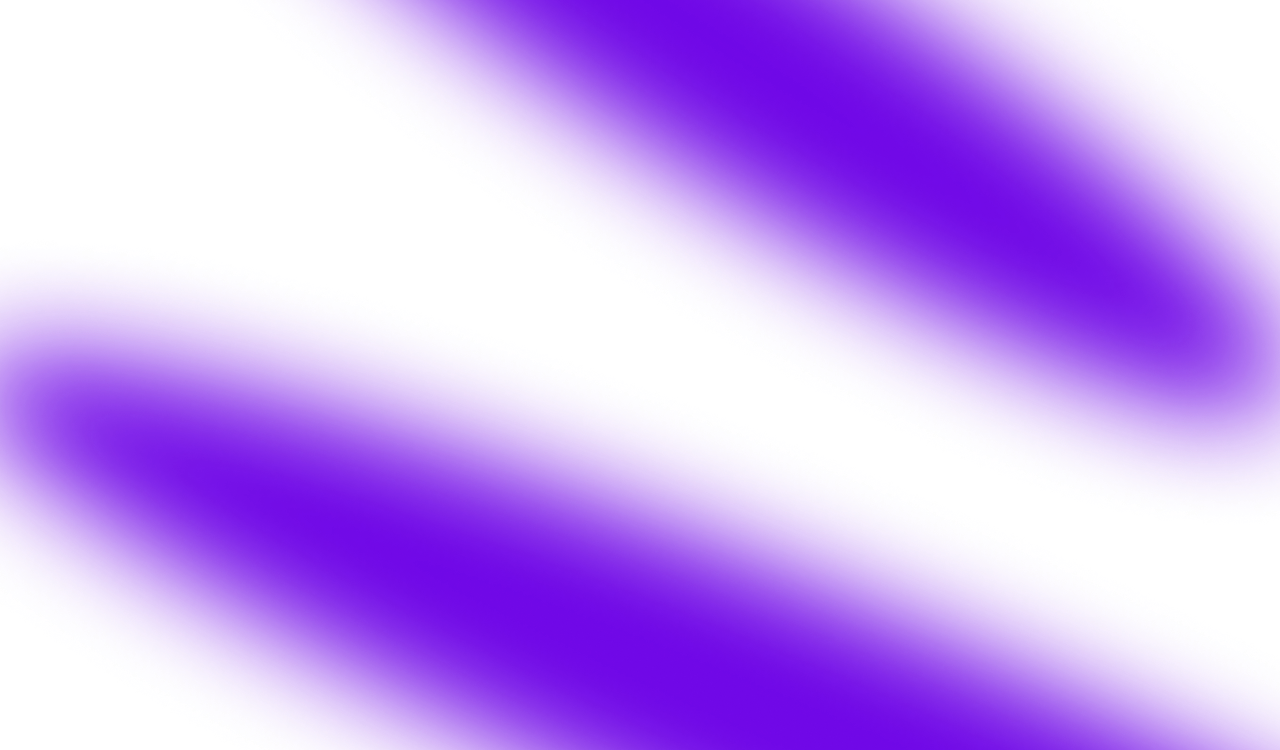
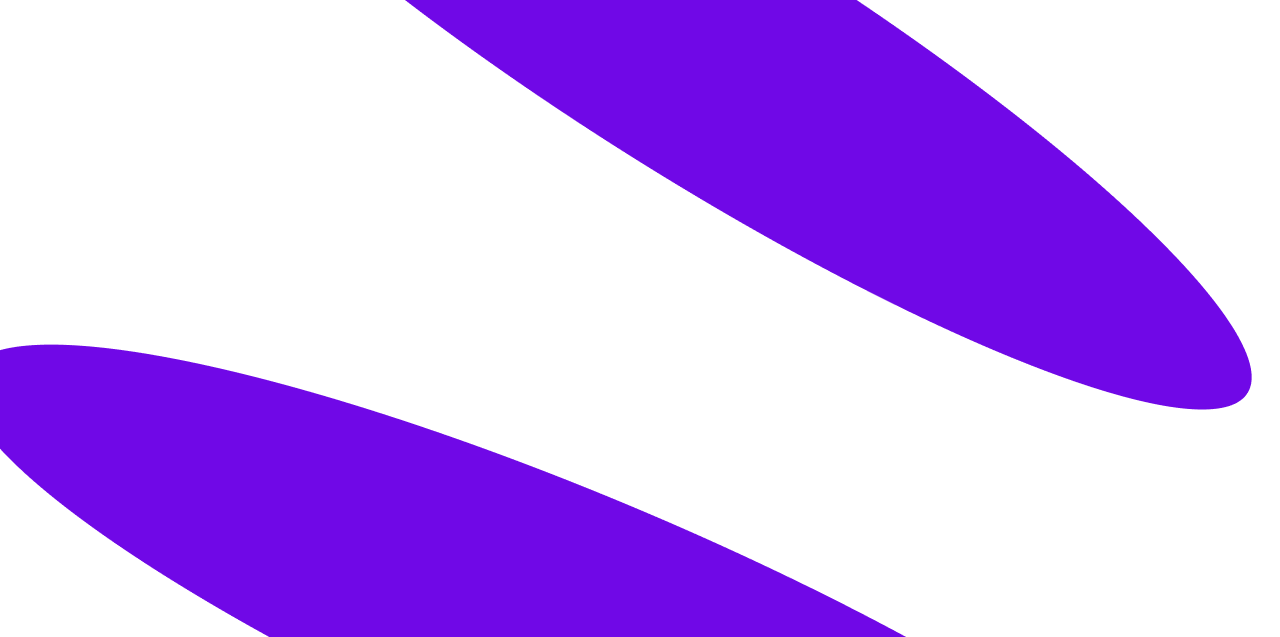
style - arrumando responsivo telas 1200x1920
Telas - home, login e cadastro

diff --git a/frontend/src/app/pages/home/home.css b/frontend/src/app/pages/home/home.css
@@ -8,6 +8,7 @@
     height: 90vh;
     background-repeat: no-repeat;
     background-size: cover;
+    background-color: #2F0D68;
 }
 
 .home__boxes {
@@ -19,12 +20,10 @@
 }
 
 .home__box {
-    background: linear-gradient(-90deg, hsl(0deg 0% 100% / 40%) 0%,
-            hsl(0deg 0% 100% / 40%) 17%,
-            hsl(0deg 0% 49.75% / 10%) 100%);
-    box-shadow: inset 0 2px 4px hsla(0, 0%, 100%, 15);
-
-    backdrop-filter: blur(50px);
+    background: linear-gradient(-90deg, hsla(0, 0%, 0%, 0) 0%, hsla(0, 0%, 21.6%, 0) 17%, hsla(0, 0%, 0%, 0.13) 100%);
+    box-shadow: inset 10px 0px 50px hsla(0, 0%, 0%, 0);
+    -webkit-backdrop-filter: blur(60px);
+    backdrop-filter: blur(60px);
 
 }
 
@@ -34,6 +33,7 @@ div.ajusteText {
     width: 100%;
     position: absolute;
     transform: translate(0, 35vh);
+    color: #fff;
 }
 
 div.conteudo {
@@ -75,8 +75,8 @@ div.btnsAjuste {
 }
 
 div.btnsAjuste a {
-    background-color: #1E1E1E;
-    color: #fff;
+    background-color: #DDD6FF;
+    color: #000;
     padding: 10px 15px;
     border-radius: 5px;
     transition: all 0.2s;
@@ -84,7 +84,8 @@ div.btnsAjuste a {
 }
 
 div.btnsAjuste a:hover {
-    background-color: #7008E7;
+    background-color: #2F0D68;
+    color: #fff;
 }
 
 /*Cards porque existimos*/
@@ -324,7 +325,7 @@ div.fCards picture {
     display: flex;
     align-items: center;
     justify-content: center;
-    height: 70%;
+    height: 30vh;
 }
 
 
@@ -563,63 +564,66 @@ section.para-alguem {
         grid-auto-flow: row;
     }
 
-    .alunoPasso, .instrutorPasso {
+    .alunoPasso,
+    .instrutorPasso {
         flex-direction: column;
         margin-top: 3vh;
     }
 
-    .passo h1{
-    font-size: 2vh;
-}
+    .passo h1 {
+        font-size: 2vh;
+    }
 
-hr{
-    display: none;
-}
+    hr {
+        display: none;
+    }
 
-div.cardsFuncionalidades {
-    flex-direction: column;
-}
+    div.cardsFuncionalidades {
+        flex-direction: column;
+    }
 
-div.fCards {
-    width: 90%;
-}
+    div.fCards {
+        width: 90%;
+    }
 
-.perguntasFreq {
-    flex-direction: column;
-}
+    .perguntasFreq {
+        flex-direction: column;
+    }
 
-.perguntasFreq h1 {
-    font-size: 3.5vh;
-    width: 100%;
-}
+    .perguntasFreq h1 {
+        font-size: 3.5vh;
+        width: 100%;
+    }
 
-.perguntas{
-    width: 100%;
-}
+    .perguntas {
+        width: 100%;
+    }
 
-.para-instrutores, .para-alunos {
-    flex-direction: column;
-    width: 90%;
-}
+    .para-instrutores,
+    .para-alunos {
+        flex-direction: column;
+        width: 90%;
+    }
 
-.para-instrutores picture, .para-instrutores picture.aluno {
-    width: 100%;
-    height: 25vh;
-}
+    .para-instrutores picture,
+    .para-instrutores picture.aluno {
+        width: 100%;
+        height: 25vh;
+    }
 
-.para-instrutores picture img {
-    border-radius: 10px;
-    object-fit: cover;
-    width: 100%;
-}
+    .para-instrutores picture img {
+        border-radius: 10px;
+        object-fit: cover;
+        width: 100%;
+    }
 
-.para-instrutores div {
-    padding: 45px 45px 45px 90px;
-}
+    .para-instrutores div {
+        padding: 45px 45px 45px 90px;
+    }
 
-.para-instrutores div p{
-    width: 100%;
-}
+    .para-instrutores div p {
+        width: 100%;
+    }
 }
 
 /* TABLET */
@@ -682,8 +686,60 @@ div.fCards {
 }
 
 /* TELAS GRANDES (opcional) */
-@media (min-width: 1440px) {
-    .conteudo h1 {
-        font-size: 7vh;
+@media screen and (max-width: 1920px) {
+    div.cards {
+        display: grid;
+        gap: 0vh;
+        margin: 3vh 0;
+        width: 100%;
+        align-items: stretch;
+        justify-content: center;
     }
+
+    div.paraInstrutores,
+    div.paraAlunos {
+        width: 100%;
+    }
+
+    p.svgP {
+        font-size: 20px;
+    }
+
+    div.paraAlunos p,
+    div.paraInstrutore p {
+        display: flex;
+        align-items: center;
+        font-size: 15px;
+    }
+
+    div.paraAlunos .paragrafo,
+    div.paraInstrutores .paragrafo {
+        display: flex;
+        align-items: center;
+        font-size: 20px;
+        text-align: justify;
+        width: 85%;
+    }
+
+    .alunoPasso hr,
+    .instrutorPasso hr {
+        position: absolute;
+        width: 50%;
+        margin: -50px 0 0 0;
+        z-index: -1;
+    }
+
+    div.fCards {
+        height: 50vh;
+    }
+
+    div.fCards h6 {
+        font-size: 19px;
+    }
+
+    div.fCards p {
+        font-size: 15px;
+    }
+
+    img.responsivoCredenciais {}
 }

diff --git a/frontend/src/app/pages/cadastro/cadastro.css b/frontend/src/app/pages/cadastro/cadastro.css
@@ -8,6 +8,7 @@
     height: 105vh;
     background-repeat: no-repeat;
     background-size: cover;
+  background-color: #2F0D68;
 }
 
 .home__boxes {
@@ -19,12 +20,13 @@
 }
 
 .home__box {
-    background: linear-gradient(-90deg, hsl(0deg 0% 100% / 40%) 0%,
-            hsl(0deg 0% 100% / 40%) 17%,
-            hsl(0deg 0% 49.75% / 10%) 100%);
-    box-shadow: inset 0 2px 4px hsla(0, 0%, 100%, 15);
+  background: linear-gradient( -90deg, hsla(0, 0%, 0%, 0.4) 0%,
+  hsla(0, 0%, 0%, 0.4) 17%,
+  hsla(0, 0%, 0%, 0.1) 100%);
+  box-shadow: inset 15px 0px 20px hsla(0, 0%, 0%, 0.33);
 
-    backdrop-filter: blur(50px);
+  backdrop-filter: blur(50px);
+
 }
 
 /* SOBREPOSIÇÃO */
@@ -51,7 +53,8 @@ div.ajusteCheck{
 /* CARD */
 .login-card {
     width: 40%;
-    height: 90vh;
+    padding: 40px 20px;
+    height: auto;
     background: white;
     border-radius: 12px;
     box-shadow: 0 20px 40px rgba(0, 0, 0, 0.2);
@@ -79,14 +82,6 @@ h1 {
         opacity: 1;
         transform: translateY(0) scale(1);
     }
-}
-
-.login-card {
-  background: #f1f1f1;
-  padding: 40px;
-  border-radius: 20px;
-  width: 35%;
-  margin: auto;
 }
 
 
@@ -155,6 +150,14 @@ h1 {
 
   .login-card {
     width: 90%;
-    height: 95vh;
+    height: auto;
 }
+}
+
+@media scree and (max-width: 1920px) {
+
+.banner{
+  height: 120vh;
+}
+
 }

diff --git a/frontend/src/app/pages/login/login.css b/frontend/src/app/pages/login/login.css
@@ -8,6 +8,7 @@
   height: 80vh;
   background-repeat: no-repeat;
   background-size: cover;
+  background-color: #2F0D68;
 }
 
 .home__boxes {
@@ -19,12 +20,13 @@
 }
 
 .home__box {
-  background: linear-gradient(-90deg, hsl(0deg 0% 100% / 40%) 0%,
-      hsl(0deg 0% 100% / 40%) 17%,
-      hsl(0deg 0% 49.75% / 10%) 100%);
-  box-shadow: inset 0 2px 4px hsla(0, 0%, 100%, 15);
+  background: linear-gradient( -90deg, hsla(0, 0%, 0%, 0.4) 0%,
+  hsla(0, 0%, 0%, 0.4) 17%,
+  hsla(0, 0%, 0%, 0.1) 100%);
+  box-shadow: inset 15px 0px 20px hsla(0, 0%, 0%, 0.33);
 
   backdrop-filter: blur(50px);
+
 }
 
 /* SOBREPOSIÇÃO */
@@ -124,5 +126,11 @@ h1 {
 
   .login-card {
     width: 90%;
+}
+}
+
+@media screen and (max-width: 1920px) {
+.login-overlay {
+  transform: translate(0, 20vh);
 }
 }

diff --git a/frontend/src/app/pages/cadastro/cadastro.html b/frontend/src/app/pages/cadastro/cadastro.html
@@ -38,10 +38,6 @@
         <!-- Título dinâmico com base no checkbox -->
         <h1>Olá {{ isInstrutor ? 'Instrutor' : 'Aluno' }}! Crie sua conta</h1>
 
-        <p>
-          Lorem ipsum dolor sit amet, consectetur adipiscing elit, sed do eiusmod tempor incididunt ut labore et dolore magna aliqua.
-        </p>
-
         <!-- Passando isInstrutor para o componente filho -->
         <app-form-cadastro [isInstrutor]="isInstrutor"></app-form-cadastro>
 

diff --git a/frontend/src/app/pages/login/login.html b/frontend/src/app/pages/login/login.html
@@ -32,10 +32,6 @@
 
     <h1>Entre na sua conta</h1>
 
-    <p>
-      Lorem ipsum dolor sit amet, consectetur adipiscing elit, sed do eiusmod tempor incididunt ut labore et dolore magna aliqua.
-    </p>
-
     <app-form-login></app-form-login>
 
     <!-- GOOGLE -->

diff --git a/frontend/src/app/pages/home/home.html b/frontend/src/app/pages/home/home.html
@@ -198,7 +198,7 @@
         </div>
         <div class="fCards">
             <picture>
-                <img src="/images/digital-authentication.png" alt="">
+                <img src="/images/digital-authentication.png" alt="" class="responsivoCredenciais">
             </picture>
             <h6>Credenciais verificadas</h6>
             <p>Todos os instrutores passam por verificação antes de aparecerem na plataforma</p>